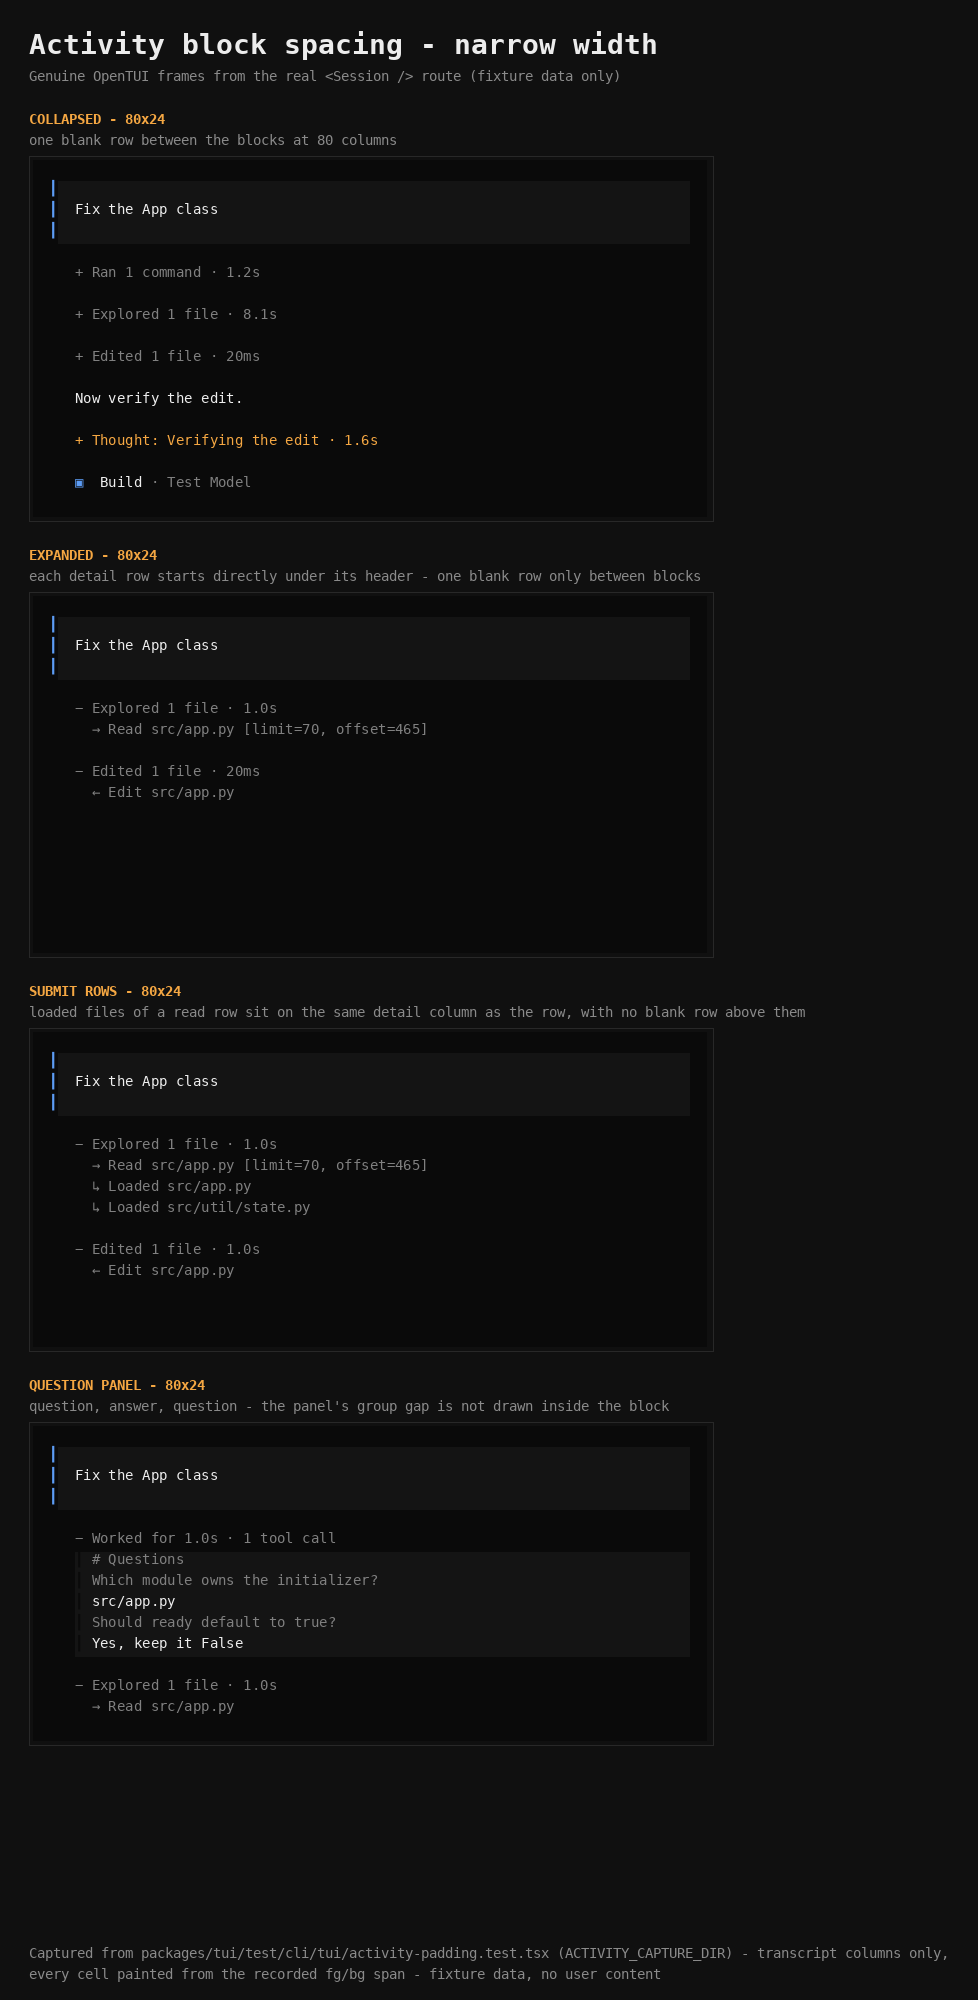
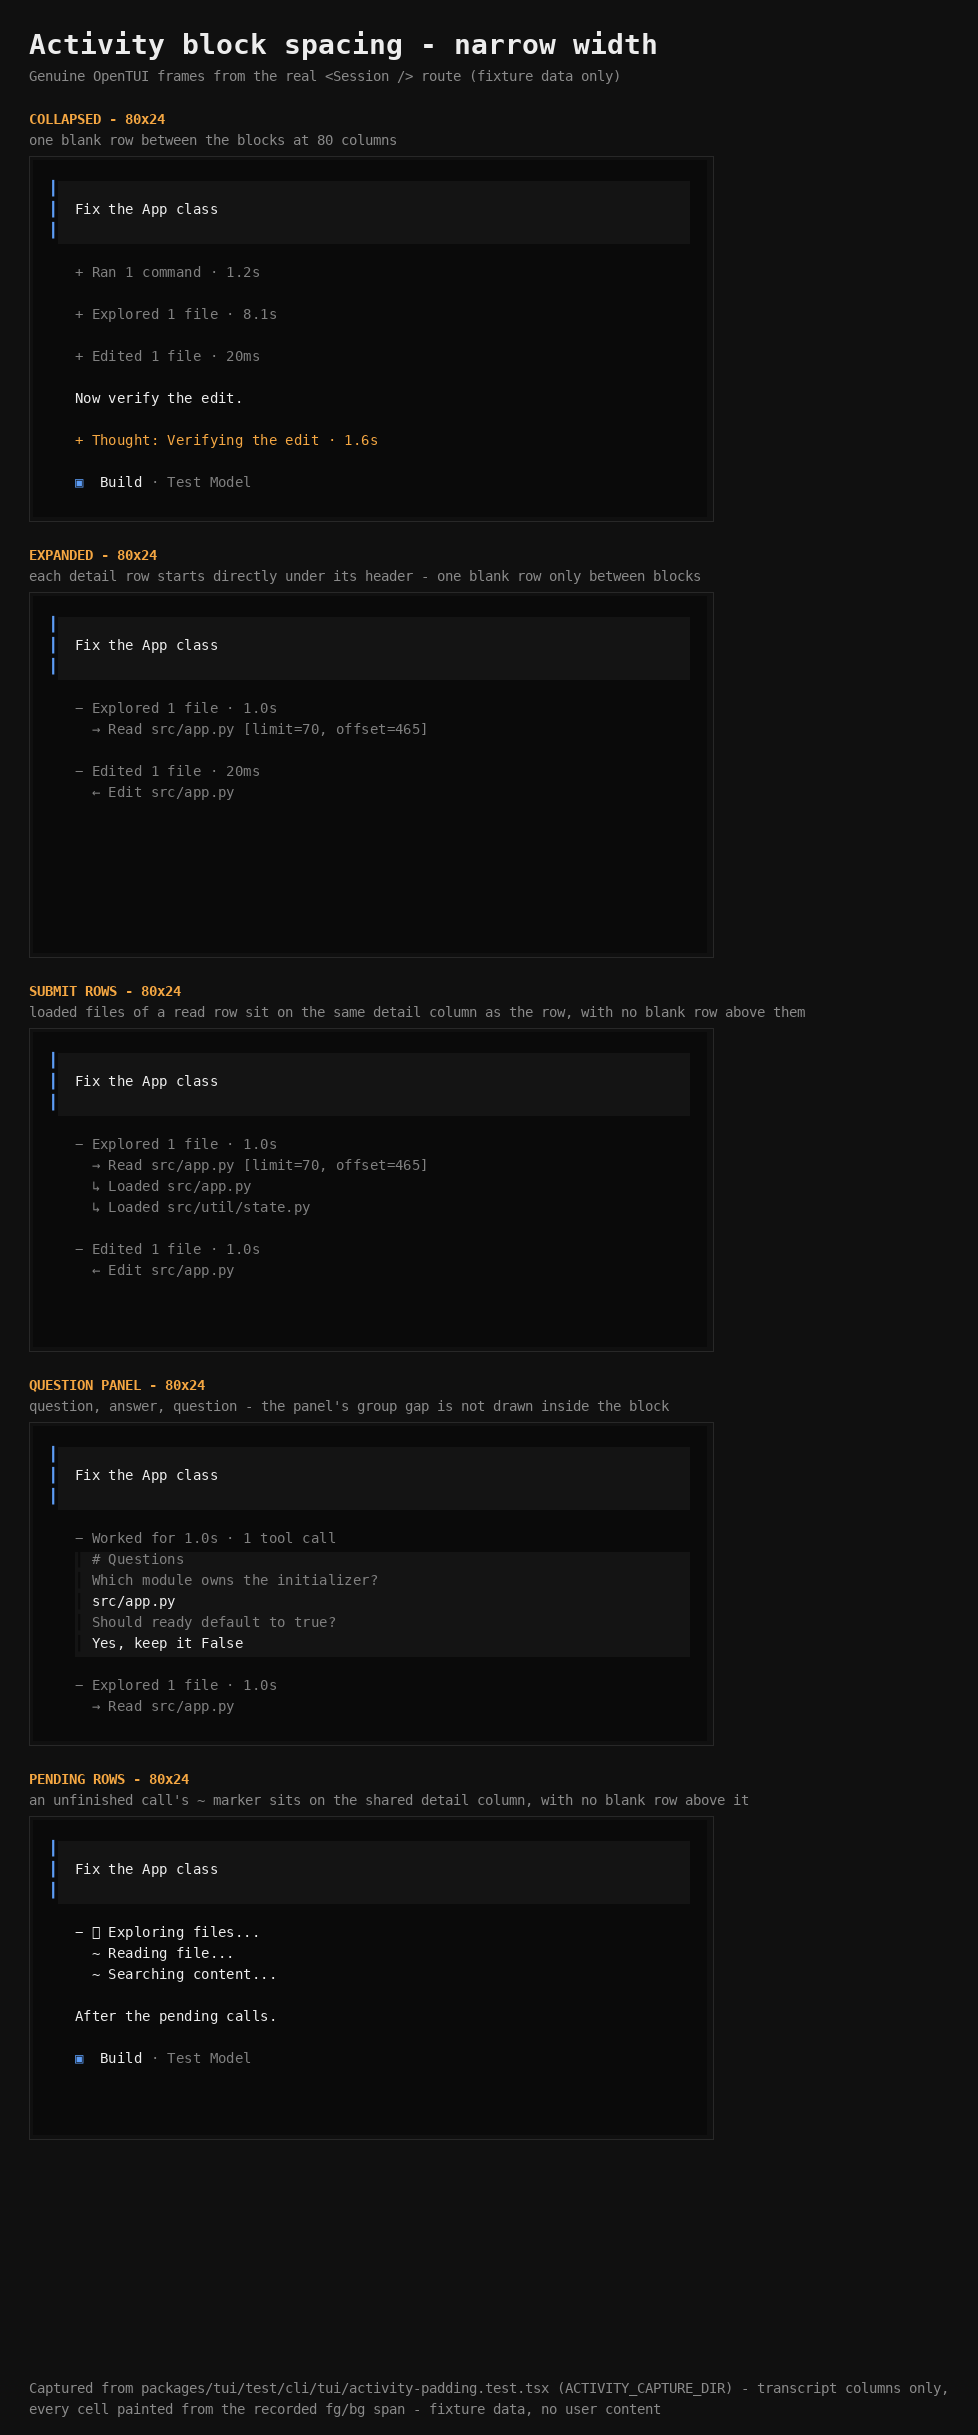
fix(tui): make the pending tool row's indent activity-aware
The P2 from the review of 344fed4 reads the pending fallback in InlineToolRow:
a completed row's marker is its icon at the shared two-column detail column,
while the pending row's `~` is a text cell carrying its own transcript-level
`paddingLeft={3}`, which on top of the wrapper's block indent would put the
pending text at +5 instead of +2.

The source now says what the row is meant to mean: inside an activity block the
pending text contributes no indent (the wrapper already supplies the shared
detail indent), and at transcript level it keeps its own. The `~` marker, the
pending text, the colour and the strikethrough attributes are untouched.

Measured, not assumed: on this head the pending rows already render on the
shared column, and this change is pixel-identical. With a long pending label
that wraps at 80 columns, frames captured with the fallback indent set to 0, 3
and 9 are byte-identical (marker at +2, wrapped continuation at +2), and every
pending frame is byte-identical before and after the change. The source is
corrected for consistency with the completed rows; no rendered output changes.

New coverage for the pending branch, which had none (every earlier fixture used
completed calls):
- a block of two pending calls at 140x40 and 80x24: both pending rows sit on the
  block header's +2 marker column (not +5), no blank row from the header to the
  first row or between the two rows, one blank row at the block boundary, and
[…]

diff --git a/packages/tui/test/cli/tui/activity-padding.test.tsx b/packages/tui/test/cli/tui/activity-padding.test.tsx
@@ -303,6 +303,54 @@ function mountTwoPanels() {
   })
 }
 
+// A call the session has not finished. `state.status === "pending"` keeps the
+// row on InlineToolRow's pending fallback (`~ <pending text>`) instead of the
+// icon + text row that every completed fixture above uses, so these fixtures
+// are the only coverage of that branch.
+function pendingToolPart(id: string, messageID: string, tool: string, input: Record<string, unknown>): ToolPart {
+  return {
+    id,
+    sessionID: SESSION,
+    messageID,
+    type: "tool",
+    callID: id,
+    tool,
+    state: { status: "pending", input, raw: "" },
+  }
+}
+
+const PENDING_READ = "~ Reading file..."
+const PENDING_GREP = "~ Searching content..."
+
+// Two pending calls in one run: the run is an activity block, so each pending
+// row is a detail row under the block header. `standalone` renders a single
+// pending call instead, which is not a run and stays at transcript level.
+function mountPending(size: keyof typeof SIZES, standalone: boolean) {
+  const session = sessionInfo(SESSION, { title: "Fix the App class" })
+  const user = userMessage("msg_00_user", SESSION)
+  const work = assistantMessage("msg_01_work", SESSION, { time: { created: at(1), completed: at(9) } })
+  const closing = assistantMessage("msg_02_closing", SESSION, { time: { created: at(9), completed: at(10) } })
+  const parts: Part[] = standalone
+    ? [pendingToolPart("prt_pending_read", work.id, "read", { filePath: "src/app.py" })]
+    : [
+        pendingToolPart("prt_pending_read", work.id, "read", { filePath: "src/app.py" }),
+        pendingToolPart("prt_pending_grep", work.id, "grep", { pattern: "class App" }),
+      ]
+  const messages: NonNullable<MountOptions["messages"]> = {
+    [SESSION]: [
+      { info: user, parts: [textPart("prt_user", user, "Fix the App class")] },
+      { info: work, parts },
+      { info: closing, parts: [textPart("prt_closing", closing, "After the pending calls.")] },
+    ],
+  }
+  return mountSessionRoute({
+    ...SIZES[size],
+    sessions: [session],
+    messages,
+    kv: standalone ? {} : { activity_groups_expanded: true },
+  })
+}
+
 // A read row that loaded two more files, and an answered question with two
 // groups. Both draw sub-rows and a group gap of their own, so both are places
 // where decorative spacing can leak inside a block.
@@ -914,6 +962,56 @@ describe("activity block spacing", () => {
       attributes: 0,
     })
   })
+
+  // A pending detail row draws `~ <pending text>` instead of icon + text. Its
+  // `~` stands on the marker column a completed row's icon uses, which inside a
+  // block is the shared two-column detail indent — the pending text must not add
+  // a transcript-level indent on top of it.
+  for (const size of ["normal", "narrow"] as const) {
+    test(`${size}: a pending detail row sits on the shared marker column`, async () => {
+      const { app } = await mountPending(size, false)
+      await settle(app)
+      const frame = await settledFrame(app, PENDING_GREP)
+      await capture(app, `activity-padding-pending-${size}`)
+
+      const header = columnOf(frame, "− ⠼ Exploring files...")
+      // The marker column is +2, the same column the completed cases assert for
+      // a detail row's icon: not 5 (wrapper indent plus a second text indent).
+      expect(columnOf(frame, PENDING_READ)).toBe(header + 2)
+      expect(columnOf(frame, PENDING_GREP)).toBe(header + 2)
+      // Header -> first pending row, and row -> row: no blank row either way.
+      expectNoBlankRowBetween(frame, "− ⠼ Exploring files...", "− ⠼ Exploring files...", PENDING_READ)
+      expectNoBlankRowBetween(frame, "− ⠼ Exploring files...", PENDING_READ, PENDING_GREP)
+      // The block boundary below the last pending row is still one blank row.
+      expectOneBlankRowBetween(frame, "− ⠼ Exploring files...", PENDING_GREP, "After the pending calls.")
+      // Pending text, colours and the `~` marker are untouched.
+      expect(await colorOf(app, PENDING_READ)).toEqual({
+        fg: [238, 238, 238, 255],
+        bg: [10, 10, 10, 255],
+        attributes: 0,
+      })
+      expect(frame).toContain("Reading file...")
+      expect(frame).toContain("Searching content...")
+    })
+  }
+
+  // The control: a lone pending call is not a run, so it stays at transcript
+  // level and lines up with the transcript's own text column, at both widths.
+  for (const size of ["normal", "narrow"] as const) {
+    test(`${size}: a standalone pending row stays on the transcript column`, async () => {
+      const { app } = await mountPending(size, true)
+      await settle(app)
+      const frame = await settledFrame(app, "After the pending calls.")
+
+      expect(columnOf(frame, PENDING_READ)).toBe(columnOf(frame, "After the pending calls."))
+      expect(frame).not.toContain("Exploring files...")
+      expect(await colorOf(app, PENDING_READ)).toEqual({
+        fg: [238, 238, 238, 255],
+        bg: [10, 10, 10, 255],
+        attributes: 0,
+      })
+    })
+  }
 
   test("transcript-level tools keep their own spacing", async () => {
     const { app } = await mountOutsideBlock()

diff --git a/packages/tui/src/routes/session/index.tsx b/packages/tui/src/routes/session/index.tsx
@@ -2868,8 +2868,13 @@ export function InlineToolRow(props: {
         <Match when={true}>
           <Show
             fallback={
+              // The pending row's `~` stands where a completed row's icon
+              // stands, so the two share a marker column. Inside an activity
+              // block that column is the shared detail indent, which the row's
+              // wrapper already applies, so the text contributes no extra
+              // indent there; at transcript level it keeps its own.
               <text
-                paddingLeft={3}
+                paddingLeft={detail ? 0 : 3}
                 fg={props.color}
                 attributes={props.denied || props.interrupted ? TextAttributes.STRIKETHROUGH : undefined}
               >
